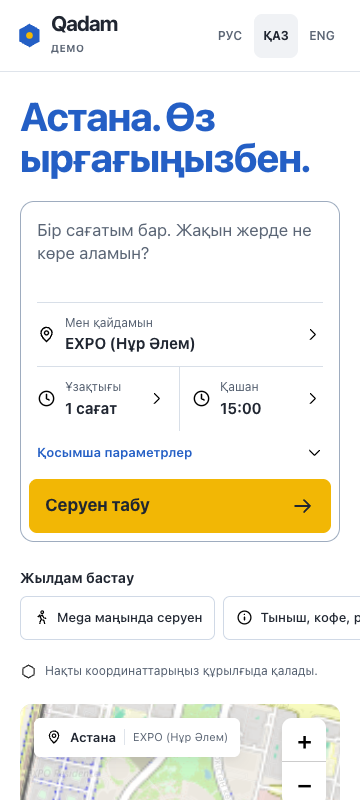
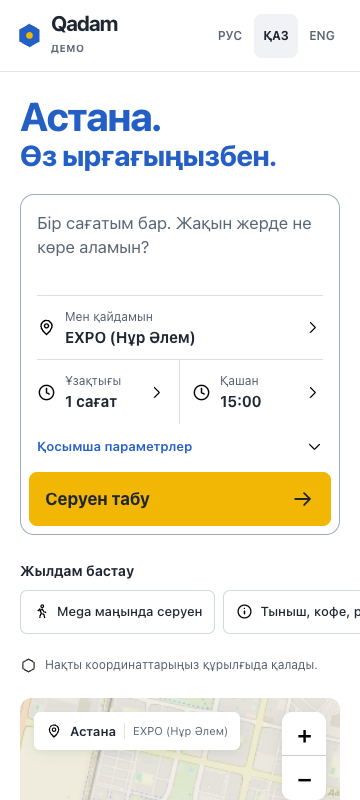
design: clarify localized headlines and refine control feedback

diff --git a/design/delivery/index.html b/design/delivery/index.html
@@ -3,7 +3,7 @@
 *{box-sizing:border-box}body{margin:0;background:#f2f4f7;color:#202631;font:14px/1.5 system-ui,-apple-system,Segoe UI,sans-serif}button,select{font:inherit}header{background:#fff;border-bottom:1px solid #dfe4eb;padding:24px 30px}h1{font-size:25px;letter-spacing:-.7px;margin:0 0 5px}header p{margin:0;color:#5c6675}header a{color:#245fc5}main{display:grid;grid-template-columns:280px minmax(0,1fr);gap:24px;padding:24px 30px;max-width:1650px;margin:auto}aside{background:#fff;border:1px solid #dfe4eb;border-radius:12px;padding:16px;align-self:start}aside h2{font-size:14px;margin:0 0 12px}nav{display:grid;gap:5px}nav button{border:0;border-radius:7px;background:transparent;text-align:left;padding:9px 10px;color:#495362;font-size:12px;min-height:38px}nav button[aria-pressed=true]{background:#eaf1ff;color:#1c4d9f;font-weight:650}nav button:hover{background:#f3f5f8}.content{min-width:0}.toolbar{display:flex;justify-content:space-between;align-items:flex-start;gap:16px;margin-bottom:15px}.toolbar h2{font-size:19px;margin:0}.toolbar p{font-size:12px;color:#5c6675;margin:4px 0 0}.toolbar a{color:#245fc5;white-space:nowrap}.modes{display:flex;gap:7px;margin-bottom:15px}.modes button{border:1px solid #d5dce5;border-radius:8px;background:#fff;padding:8px 13px;min-height:42px;color:#495362}.modes button[aria-pressed=true]{background:#202631;color:#fff;border-color:#202631}.preview{padding:22px;background:#e7ebf1;border-radius:13px;overflow:hidden;min-height:400px}.preview img{display:block;max-width:100%;height:auto;margin:0 auto;border:1px solid #d5dce5;box-shadow:0 8px 35px #20263110}.device{margin:auto;position:relative;overflow:hidden;background:#fff;border:1px solid #d5dce5}.device iframe{border:0;display:block;transform-origin:top left}.note{font-size:12px;line-height:1.8;color:#5c6675;background:#fff;border-radius:9px;padding:14px 16px;margin-top:15px}button:focus-visible,a:focus-visible,select:focus-visible{outline:3px solid #245fc5;outline-offset:3px}footer{padding:0 30px 25px;font-size:12px;color:#5c6675;text-align:center}@media(max-width:750px){header{padding:20px}main{display:block;padding:20px}aside{margin-bottom:20px}nav{display:flex;overflow-x:auto;max-height:120px;flex-wrap:nowrap}nav button{flex:0 0 170px}.toolbar{flex-wrap:wrap}.preview{padding:10px}.modes button{font-size:12px;padding:8px}.note{font-size:12px}}[hidden]{display:none!important}
 </style></head><body><header><h1>Qadam · UI/UX v2</h1><p style="margin:10px 0"><a href="demo/?view=home&amp;lang=kk" style="font-weight:650">Открыть обновлённый макет ↗</a> · <a href="UX-REFINEMENT.md">Что изменилось</a></p><p id="intro">Материалы для Megah / POLISH · P0 + P1 · казахский по умолчанию</p><p><a href="HANDOFF.md">Инструкция по передаче</a> · <a href="CONTRACT-AND-COVERAGE.md">Контракт и REQUEST</a> · <a href="QA-REVIEW.md">Проверка</a> · <a href="spec/tokens.json">Токены</a></p></header><main><aside><h2>Один кадр — одно состояние</h2><nav id="frames" aria-label="Кадры"></nav></aside><section class="content"><div class="toolbar"><div><h2 id="title"></h2><p id="size"></p></div><a id="download" download>PNG кадра ↗</a></div><div class="modes"><button type="button" data-mode="image" aria-pressed="true">PNG для вёрстки</button><button type="button" data-mode="demo" aria-pressed="false">Кликабельное состояние</button></div><div class="preview"><img id="shot" alt=""><div class="device" id="device" hidden><iframe id="demo" title="Qadam — интерактивный макет"></iframe></div></div><div class="note" id="note">Все числа, часы и статусы — демонстрационные фикстуры, а не проверка реальных мест. Приложение web/** не изменено. SVG-иконки и логотип находятся в assets/. Интерактивный просмотр требует запуска локального сервера по инструкции.</div></section></main><footer>Мобильные: 360 × 800 и 390 × 844 · Desktop: 1440 × 900 · Проверка: 1280 × 720 · Видео: 1920 × 1080</footer>
 <script>
-const manifest={"generatedAt": "2026-10-19T18:05:35.670Z", "frames": [{"file": "screens/01-home.png", "view": "home", "width": 360, "height": 800, "lang": "kk", "section": "top", "url": "demo/?view=home&lang=kk", "layout": {"width": 360, "scrollWidth": 360, "lang": "kk", "bodyHeight": 924, "firstCard": null}}, {"file": "screens/02-answer.png", "view": "answer", "width": 360, "height": 800, "lang": "kk", "section": "top", "url": "demo/?view=answer&lang=kk", "layout": {"width": 360, "scrollWidth": 360, "lang": "kk", "bodyHeight": 1931, "firstCard": {"top": 431.484375, "bottom": 725.453125}}}, {"file": "screens/03-card-open-poi.png", "view": "card-open", "width": 360, "height": 800, "lang": "kk", "section": "top", "url": "demo/?view=card-open&lang=kk", "layout": {"width": 360, "scrollWidth": 360, "lang": "kk", "bodyHeight": 800, "firstCard": {"top": 14, "bottom": 363.578125}}}, {"file": "screens/04-card-likely-ai.png", "view": "card-maybe", "width": 360, "height": 800, "lang": "kk", "section": "top", "url": "demo/?view=card-maybe&lang=kk", "layout": {"width": 360, "scrollWidth": 360, "lang": "kk", "bodyHeight": 800, "firstCard": {"top": 14, "bottom": 354.078125}}}, {"file": "screens/05-card-unnamed.png", "view": "card-unnamed", "width": 360, "height": 800, "lang": "kk", "section": "top", "url": "demo/?view=card-unnamed&lang=kk", "layout": {"width": 360, "scrollWidth": 360, "lang": "kk", "bodyHeight": 800, "firstCard": {"top": 14, "bottom": 406.359375}}}, {"file": "screens/06-card-closing.png", "view": "closing-soon", "width": 360, "height": 800, "lang": "kk", "section": "top", "url": "demo/?view=closing-soon&lang=kk", "layout": {"width": 360, "scrollWidth": 360, "lang": "kk", "bodyHeight": 800, "firstCard": {"top": 14, "bottom": 404.96875}}}, {"file": "screens/07-card-no-ai.png", "view": "card-no-ai", "width": 360, "height": 800, "lang": "kk", "section": "top", "url": "demo/?view=card-no-ai&lang=kk", "layout": {"width": 360, "scrollWidth": 360, "lang": "kk", "bodyHeight": 800, "firstCard": {"top": 70, "bottom": 389.78125}}}, {"file": "screens/08-card-selected.png", "view": "selected", "width": 360, "height": 800, "lang": "kk", "section": "top", "url": "demo/?view=selected&lang=kk", "layout": {"width": 360, "scrollWidth": 360, "lang": "kk", "bodyHeight": 800, "firstCard": {"top": 14, "bottom": 383.96875}}}, {"file": "screens/09-loading.png", "view": "loading", "width": 360, "height": 800, "lang": "kk", "section": "top", "url": "demo/?view=loading&lang=kk", "layout": {"width": 360, "scrollWidth": 360, "lang": "kk", "bodyHeight": 1180, "firstCard": {"top": 414.796875, "bottom": 542.796875}}}, {"file": "screens/10-error.png", "view": "error", "width": 360, "height": 800, "lang": "kk", "section": "top", "url": "demo/?view=error&lang=kk", "layout": {"width": 360, "scrollWidth": 360, "lang": "kk", "bodyHeight": 1180, "firstCard": null}}, {"file": "screens/11-empty.png", "view": "empty", "width": 360, "height": 800, "lang": "kk", "section": "top", "url": "demo/?view=empty&lang=kk", "layout": {"width": 360, "scrollWidth": 360, "lang": "kk", "bodyHeight": 1103, "firstCard": null}}, {"file": "screens/12-conditions-changed.png", "view": "stale", "width": 360, "height": 800, "lang": "kk", "section": "top", "url": "demo/?view=stale&lang=kk", "layout": {"width": 360, "scrollWidth": 360, "lang": "kk", "bodyHeight": 2105, "firstCard": {"top": 601.390625, "bottom": 897.359375}}}, {"file": "screens/13-answer-no-ai.png", "view": "no-ai", "width": 360, "height": 800, "lang": "kk", "section": "top", "url": "demo/?view=no-ai&lang=kk", "layout": {"width": 360, "scrollWidth": 360, "lang": "kk", "bodyHeight": 1219, "firstCard": {"top": 403.484375, "bottom": 667.65625}}}, {"file": "screens/14-departure.png", "view": "departure", "width": 360, "height": 800, "lang": "kk", "section": "top", "url": "demo/?view=departure&lang=kk", "layout": {"width": 360, "scrollWidth": 360, "lang": "kk", "bodyHeight": 1224, "firstCard": {"top": 408.765625, "bottom": 672.9375}}}, {"file": "screens/15-night.png", "view": "night", "width": 360, "height": 800, "lang": "kk", "section": "top", "url": "demo/?view=night&lang=kk", "layout": {"width": 360, "scrollWidth": 360, "lang": "kk", "bodyHeight": 1184, "firstCard": null}}, {"file": "screens/16-coffee.png", "view": "coffee", "width": 360, "height": 800, "lang": "kk", "section": "top", "url": "demo/?view=coffee&lang=kk", "layout": {"width": 360, "scrollWidth": 360, "lang": "kk", "bodyHeight": 1220, "firstCard": {"top": 408.765625, "bottom": 668.84375}}}, {"file": "screens/17-with-child.png", "view": "kids", "width": 360, "height": 800, "lang": "kk", "section": "top", "url": "demo/?view=kids&lang=kk", "layout": {"width": 360, "scrollWidth": 360, "lang": "kk", "bodyHeight": 1234, "firstCard": {"top": 370.484375, "bottom": 682.84375}}}, {"file": "screens/18-route.png", "view": "route", "width": 360, "height": 800, "lang": "kk", "section": "top", "url": "demo/?view=route&lang=kk", "layout": {"width": 360, "scrollWidth": 360, "lang": "kk", "bodyHeight": 800, "firstCard": {"top": 0, "bottom": 0}}}, {"file": "screens/19-privacy-cell.png", "view": "privacy", "width": 360, "height": 800, "lang": "kk", "section": "map", "url": "demo/?view=privacy&lang=kk", "layout": {"width": 360, "scrollWidth": 360, "lang": "kk", "bodyHeight": 1931, "firstCard": {"top": -699.515625, "bottom": -405.546875}}}, {"file": "screens/20-data-used.png", "view": "data", "width": 360, "height": 800, "lang": "kk", "section": "top", "url": "demo/?view=data&lang=kk", "layout": {"width": 360, "scrollWidth": 360, "lang": "kk", "bodyHeight": 1132, "firstCard": {"top": 0, "bottom": 0}}}, {"file": "screens/21-pick-map.png", "view": "pick", "width": 360, "height": 800, "lang": "kk", "section": "map", "url": "demo/?view=pick&lang=kk", "layout": {"width": 360, "scrollWidth": 360, "lang": "kk", "bodyHeight": 1551, "firstCard": {"top": 431.484375, "bottom": 725.453125}}}, {"file": "screens/22-map-unavailable.png", "view": "map-error", "width": 360, "height": 800, "lang": "kk", "section": "map", "url": "demo/?view=map-error&lang=kk", "layout": {"width": 360, "scrollWidth": 360, "lang": "kk", "bodyHeight": 1931, "firstCard": {"top": -699.515625, "bottom": -405.546875}}}, {"file": "screens/23-geolocation-denied.png", "view": "geo-denied", "width": 360, "height": 800, "lang": "kk", "section": "top", "url": "demo/?view=geo-denied&lang=kk", "layout": {"width": 360, "scrollWidth": 360, "lang": "kk", "bodyHeight": 1757, "firstCard": null}}, {"file": "screens/24-outside-astana.png", "view": "geo-far", "width": 360, "height": 800, "lang": "kk", "section": "top", "url": "demo/?view=geo-far&lang=kk", "layout": {"width": 360, "scrollWidth": 360, "lang": "kk", "bodyHeight": 1757, "firstCard": null}}, {"file": "screens/25-query-too-large.png", "view": "too-large", "width": 360, "height": 800, "lang": "kk", "section": "top", "url": "demo/?view=too-large&lang=kk", "layout": {"width": 360, "scrollWidth": 360, "lang": "kk", "bodyHeight": 1180, "firstCard": null}}, {"file": "screens/26-server-loading.png", "view": "unavailable", "width": 360, "height": 800, "lang": "kk", "section": "top", "url": "demo/?view=unavailable&lang=kk", "layout": {"width": 360, "scrollWidth": 360, "lang": "kk", "bodyHeight": 1180, "firstCard": null}}, {"file": "screens/27-timeout.png", "view": "timeout", "width": 360, "height": 800, "lang": "kk", "section": "top", "url": "demo/?view=timeout&lang=kk", "layout": {"width": 360, "scrollWidth": 360, "lang": "kk", "bodyHeight": 1180, "firstCard": null}}, {"file": "screens/28-query-empty.png", "view": "query-empty", "width": 360, "height": 800, "lang": "kk", "section": "top", "url": "demo/?view=query-empty&lang=kk", "layout": {"width": 360, "scrollWidth": 360, "lang": "kk", "bodyHeight": 963, "firstCard": null}}, {"file": "screens/29-route-over-budget.png", "view": "over-budget", "width": 360, "height": 800, "lang": "kk", "section": "route", "url": "demo/?view=over-budget&lang=kk", "layout": {"width": 360, "scrollWidth": 360, "lang": "kk", "bodyHeight": 2380, "firstCard": {"top": -741.375, "bottom": -447.40625}}}, {"file": "screens/30-styles.png", "view": "styles", "width": 360, "height": 800, "lang": "kk", "section": "top", "url": "demo/?view=styles&lang=kk", "layout": {"width": 360, "scrollWidth": 360, "lang": "kk", "bodyHeight": 827, "firstCard": null}}, {"file": "screens/31-desktop-1440.png", "view": "answer", "width": 1440, "height": 900, "lang": "kk", "section": "top", "url": "demo/?view=answer&lang=kk", "layout": {"width": 1440, "scrollWidth": 1440, "lang": "kk", "bodyHeight": 900, "firstCard": {"top": 428.171875, "bottom": 664.265625}}}, {"file": "screens/32-desktop-1280.png", "view": "answer", "width": 1280, "height": 720, "lang": "kk", "section": "top", "url": "demo/?view=answer&lang=kk", "layout": {"width": 1280, "scrollWidth": 1280, "lang": "kk", "bodyHeight": 720, "firstCard": {"top": 428.171875, "bottom": 686.015625}}}, {"file": "screens/33-video-1920.png", "view": "privacy", "width": 1920, "height": 1080, "lang": "kk", "section": "top", "url": "demo/?view=privacy&lang=kk", "layout": {"width": 1920, "scrollWidth": 1920, "lang": "kk", "bodyHeight": 1080, "firstCard": {"top": 428.171875, "bottom": 664.265625}}}, {"file": "screens/34-phone-390.png", "view": "answer", "width": 390, "height": 844, "lang": "kk", "section": "top", "url": "demo/?view=answer&lang=kk", "layout": {"width": 390, "scrollWidth": 390, "lang": "kk", "bodyHeight": 1856, "firstCard": {"top": 406.390625, "bottom": 647.390625}}}, {"file": "screens/35-tablet-768.png", "view": "answer", "width": 768, "height": 1000, "lang": "kk", "section": "top", "url": "demo/?view=answer&lang=kk", "layout": {"width": 768, "scrollWidth": 768, "lang": "kk", "bodyHeight": 1638, "firstCard": {"top": 385.390625, "bottom": 583.59375}}}, {"file": "screens/36-response-ru.png", "view": "answer", "width": 360, "height": 800, "lang": "ru", "section": "top", "url": "demo/?view=answer&lang=ru", "layout": {"width": 360, "scrollWidth": 360, "lang": "ru", "bodyHeight": 1824, "firstCard": {"top": 421.453125, "bottom": 685.625}}}, {"file": "screens/37-response-en.png", "view": "answer", "width": 360, "height": 800, "lang": "en", "section": "top", "url": "demo/?view=answer&lang=en", "layout": {"width": 360, "scrollWidth": 360, "lang": "en", "bodyHeight": 1742, "firstCard": {"top": 406.390625, "bottom": 648.0625}}}, {"file": "screens/38-closed-medium.png", "view": "closed-medium", "width": 360, "height": 800, "lang": "kk", "section": "top", "url": "demo/?view=closed-medium&lang=kk", "layout": {"width": 360, "scrollWidth": 360, "lang": "kk", "bodyHeight": 1165, "firstCard": {"top": 349.484375, "bottom": 613.65625}}}, {"file": "screens/39-desktop-form.png", "view": "home", "width": 1440, "height": 900, "lang": "kk", "section": "top", "url": "demo/?view=home&lang=kk", "layout": {"width": 1440, "scrollWidth": 1440, "lang": "kk", "bodyHeight": 900, "firstCard": null}}, {"file": "screens/40-sent-payload.png", "view": "data", "width": 360, "height": 800, "lang": "kk", "section": "payload", "url": "demo/?view=data&lang=kk", "layout": {"width": 360, "scrollWidth": 360, "lang": "kk", "bodyHeight": 1132, "firstCard": {"top": 0, "bottom": 0}}}, {"file": "screens/41-mega-scenario.png", "view": "answer-short", "width": 360, "height": 800, "lang": "kk", "section": "top", "url": "demo/?view=answer-short&lang=kk", "layout": {"width": 360, "scrollWidth": 360, "lang": "kk", "bodyHeight": 1636, "firstCard": {"top": 431.484375, "bottom": 691.5625}}}], "errors": []};
+const manifest={"generatedAt":"2026-10-19T18:16:28.785Z","frames":[{"file":"screens/01-home.png","view":"home","width":360,"height":800,"lang":"kk","section":"top","url":"demo/?view=home&lang=kk","layout":{"width":360,"scrollWidth":360,"lang":"kk","bodyHeight":918,"firstCard":null}},{"file":"screens/02-answer.png","view":"answer","width":360,"height":800,"lang":"kk","section":"top","url":"demo/?view=answer&lang=kk","layout":{"width":360,"scrollWidth":360,"lang":"kk","bodyHeight":1931,"firstCard":{"top":431.484375,"bottom":725.453125}}},{"file":"screens/03-card-open-poi.png","view":"card-open","width":360,"height":800,"lang":"kk","section":"top","url":"demo/?view=card-open&lang=kk","layout":{"width":360,"scrollWidth":360,"lang":"kk","bodyHeight":800,"firstCard":{"top":14,"bottom":363.578125}}},{"file":"screens/04-card-likely-ai.png","view":"card-maybe","width":360,"height":800,"lang":"kk","section":"top","url":"demo/?view=card-maybe&lang=kk","layout":{"width":360,"scrollWidth":360,"lang":"kk","bodyHeight":800,"firstCard":{"top":14,"bottom":354.078125}}},{"file":"screens/05-card-unnamed.png","view":"card-unnamed","width":360,"height":800,"lang":"kk","section":"top","url":"demo/?view=card-unnamed&lang=kk","layout":{"width":360,"scrollWidth":360,"lang":"kk","bodyHeight":800,"firstCard":{"top":14,"bottom":406.359375}}},{"file":"screens/06-card-closing.png","view":"closing-soon","width":360,"height":800,"lang":"kk","section":"top","url":"demo/?view=closing-soon&lang=kk","layout":{"width":360,"scrollWidth":360,"lang":"kk","bodyHeight":800,"firstCard":{"top":14,"bottom":404.96875}}},{"file":"screens/07-card-no-ai.png","view":"card-no-ai","width":360,"height":800,"lang":"kk","section":"top","url":"demo/?view=card-no-ai&lang=kk","layout":{"width":360,"scrollWidth":360,"lang":"kk","bodyHeight":800,"firstCard":{"top":70,"bottom":389.78125}}},{"file":"screens/08-card-selected.png","view":"selected","width":360,"height":800,"lang":"kk","section":"top","url":"demo/?view=selected&lang=kk","layout":{"width":360,"scrollWidth":360,"lang":"kk","bodyHeight":800,"firstCard":{"top":14,"bottom":383.96875}}},{"file":"screens/09-loading.png","view":"loading","width":360,"height":800,"lang":"kk","section":"top","url":"demo/?view=loading&lang=kk","layout":{"width":360,"scrollWidth":360,"lang":"kk","bodyHeight":1180,"firstCard":{"top":414.796875,"bottom":542.796875}}},{"file":"screens/10-error.png","view":"error","width":360,"height":800,"lang":"kk","section":"top","url":"demo/?view=error&lang=kk","layout":{"width":360,"scrollWidth":360,"lang":"kk","bodyHeight":1180,"firstCard":null}},{"file":"screens/11-empty.png","view":"empty","width":360,"height":800,"lang":"kk","section":"top","url":"demo/?view=empty&lang=kk","layout":{"width":360,"scrollWidth":360,"lang":"kk","bodyHeight":1103,"firstCard":null}},{"file":"screens/12-conditions-changed.png","view":"stale","width":360,"height":800,"lang":"kk","section":"top","url":"demo/?view=stale&lang=kk","layout":{"width":360,"scrollWidth":360,"lang":"kk","bodyHeight":2105,"firstCard":{"top":601.390625,"bottom":897.359375}}},{"file":"screens/13-answer-no-ai.png","view":"no-ai","width":360,"height":800,"lang":"kk","section":"top","url":"demo/?view=no-ai&lang=kk","layout":{"width":360,"scrollWidth":360,"lang":"kk","bodyHeight":1219,"firstCard":{"top":403.484375,"bottom":667.65625}}},{"file":"screens/14-departure.png","view":"departure","width":360,"height":800,"lang":"kk","section":"top","url":"demo/?view=departure&lang=kk","layout":{"width":360,"scrollWidth":360,"lang":"kk","bodyHeight":1224,"firstCard":{"top":408.765625,"bottom":672.9375}}},{"file":"screens/15-night.png","view":"night","width":360,"height":800,"lang":"kk","section":"top","url":"demo/?view=night&lang=kk","layout":{"width":360,"scrollWidth":360,"lang":"kk","bodyHeight":1184,"firstCard":null}},{"file":"screens/16-coffee.png","view":"coffee","width":360,"height":800,"lang":"kk","section":"top","url":"demo/?view=coffee&lang=kk","layout":{"width":360,"scrollWidth":360,"lang":"kk","bodyHeight":1220,"firstCard":{"top":408.765625,"bottom":668.84375}}},{"file":"screens/17-with-child.png","view":"kids","width":360,"height":800,"lang":"kk","section":"top","url":"demo/?view=kids&lang=kk","layout":{"width":360,"scrollWidth":360,"lang":"kk","bodyHeight":1234,"firstCard":{"top":370.484375,"bottom":682.84375}}},{"file":"screens/18-route.png","view":"route","width":360,"height":800,"lang":"kk","section":"top","url":"demo/?view=route&lang=kk","layout":{"width":360,"scrollWidth":360,"lang":"kk","bodyHeight":800,"firstCard":{"top":0,"bottom":0}}},{"file":"screens/19-privacy-cell.png","view":"privacy","width":360,"height":800,"lang":"kk","section":"map","url":"demo/?view=privacy&lang=kk","layout":{"width":360,"scrollWidth":360,"lang":"kk","bodyHeight":1931,"firstCard":{"top":-699.515625,"bottom":-405.546875}}},{"file":"screens/20-data-used.png","view":"data","width":360,"height":800,"lang":"kk","section":"top","url":"demo/?view=data&lang=kk","layout":{"width":360,"scrollWidth":360,"lang":"kk","bodyHeight":1132,"firstCard":{"top":0,"bottom":0}}},{"file":"screens/21-pick-map.png","view":"pick","width":360,"height":800,"lang":"kk","section":"map","url":"demo/?view=pick&lang=kk","layout":{"width":360,"scrollWidth":360,"lang":"kk","bodyHeight":1551,"firstCard":{"top":431.484375,"bottom":725.453125}}},{"file":"screens/22-map-unavailable.png","view":"map-error","width":360,"height":800,"lang":"kk","section":"map","url":"demo/?view=map-error&lang=kk","layout":{"width":360,"scrollWidth":360,"lang":"kk","bodyHeight":1931,"firstCard":{"top":-699.515625,"bottom":-405.546875}}},{"file":"screens/23-geolocation-denied.png","view":"geo-denied","width":360,"height":800,"lang":"kk","section":"top","url":"demo/?view=geo-denied&lang=kk","layout":{"width":360,"scrollWidth":360,"lang":"kk","bodyHeight":1750,"firstCard":null}},{"file":"screens/24-outside-astana.png","view":"geo-far","width":360,"height":800,"lang":"kk","section":"top","url":"demo/?view=geo-far&lang=kk","layout":{"width":360,"scrollWidth":360,"lang":"kk","bodyHeight":1750,"firstCard":null}},{"file":"screens/25-query-too-large.png","view":"too-large","width":360,"height":800,"lang":"kk","section":"top","url":"demo/?view=too-large&lang=kk","layout":{"width":360,"scrollWidth":360,"lang":"kk","bodyHeight":1180,"firstCard":null}},{"file":"screens/26-server-loading.png","view":"unavailable","width":360,"height":800,"lang":"kk","section":"top","url":"demo/?view=unavailable&lang=kk","layout":{"width":360,"scrollWidth":360,"lang":"kk","bodyHeight":1180,"firstCard":null}},{"file":"screens/27-timeout.png","view":"timeout","width":360,"height":800,"lang":"kk","section":"top","url":"demo/?view=timeout&lang=kk","layout":{"width":360,"scrollWidth":360,"lang":"kk","bodyHeight":1180,"firstCard":null}},{"file":"screens/28-query-empty.png","view":"query-empty","width":360,"height":800,"lang":"kk","section":"top","url":"demo/?view=query-empty&lang=kk","layout":{"width":360,"scrollWidth":360,"lang":"kk","bodyHeight":957,"firstCard":null}},{"file":"screens/29-route-over-budget.png","view":"over-budget","width":360,"height":800,"lang":"kk","section":"route","url":"demo/?view=over-budget&lang=kk","layout":{"width":360,"scrollWidth":360,"lang":"kk","bodyHeight":2380,"firstCard":{"top":-741.375,"bottom":-447.40625}}},{"file":"screens/30-styles.png","view":"styles","width":360,"height":800,"lang":"kk","section":"top","url":"demo/?view=styles&lang=kk","layout":{"width":360,"scrollWidth":360,"lang":"kk","bodyHeight":827,"firstCard":null}},{"file":"screens/31-desktop-1440.png","view":"answer","width":1440,"height":900,"lang":"kk","section":"top","url":"demo/?view=answer&lang=kk","layout":{"width":1440,"scrollWidth":1440,"lang":"kk","bodyHeight":900,"firstCard":{"top":428.171875,"bottom":664.265625}}},{"file":"screens/32-desktop-1280.png","view":"answer","width":1280,"height":720,"lang":"kk","section":"top","url":"demo/?view=answer&lang=kk","layout":{"width":1280,"scrollWidth":1280,"lang":"kk","bodyHeight":720,"firstCard":{"top":428.171875,"bottom":686.015625}}},{"file":"screens/33-video-1920.png","view":"privacy","width":1920,"height":1080,"lang":"kk","section":"top","url":"demo/?view=privacy&lang=kk","layout":{"width":1920,"scrollWidth":1920,"lang":"kk","bodyHeight":1080,"firstCard":{"top":428.171875,"bottom":664.265625}}},{"file":"screens/34-phone-390.png","view":"answer","width":390,"height":844,"lang":"kk","section":"top","url":"demo/?view=answer&lang=kk","layout":{"width":390,"scrollWidth":390,"lang":"kk","bodyHeight":1856,"firstCard":{"top":406.390625,"bottom":647.390625}}},{"file":"screens/35-tablet-768.png","view":"answer","width":768,"height":1000,"lang":"kk","section":"top","url":"demo/?view=answer&lang=kk","layout":{"width":768,"scrollWidth":768,"lang":"kk","bodyHeight":1638,"firstCard":{"top":385.390625,"bottom":583.59375}}},{"file":"screens/36-response-ru.png","view":"answer","width":360,"height":800,"lang":"ru","section":"top","url":"demo/?view=answer&lang=ru","layout":{"width":360,"scrollWidth":360,"lang":"ru","bodyHeight":1824,"firstCard":{"top":421.453125,"bottom":685.625}}},{"file":"screens/37-response-en.png","view":"answer","width":360,"height":800,"lang":"en","section":"top","url":"demo/?view=answer&lang=en","layout":{"width":360,"scrollWidth":360,"lang":"en","bodyHeight":1742,"firstCard":{"top":406.390625,"bottom":648.0625}}},{"file":"screens/38-closed-medium.png","view":"closed-medium","width":360,"height":800,"lang":"kk","section":"top","url":"demo/?view=closed-medium&lang=kk","layout":{"width":360,"scrollWidth":360,"lang":"kk","bodyHeight":1165,"firstCard":{"top":349.484375,"bottom":613.65625}}},{"file":"screens/39-desktop-form.png","view":"home","width":1440,"height":900,"lang":"kk","section":"top","url":"demo/?view=home&lang=kk","layout":{"width":1440,"scrollWidth":1440,"lang":"kk","bodyHeight":900,"firstCard":null}},{"file":"screens/40-sent-payload.png","view":"data","width":360,"height":800,"lang":"kk","section":"payload","url":"demo/?view=data&lang=kk","layout":{"width":360,"scrollWidth":360,"lang":"kk","bodyHeight":1132,"firstCard":{"top":0,"bottom":0}}},{"file":"screens/41-mega-scenario.png","view":"answer-short","width":360,"height":800,"lang":"kk","section":"top","url":"demo/?view=answer-short&lang=kk","layout":{"width":360,"scrollWidth":360,"lang":"kk","bodyHeight":1636,"firstCard":{"top":431.484375,"bottom":691.5625}}}],"errors":[]};
 const labels={"screens/01-home.png": "01 Главный", "screens/02-answer.png": "02 Ответ", "screens/03-card-open-poi.png": "03 Карточка · открыто + POI", "screens/04-card-likely-ai.png": "04 Карточка · вероятно открыто + ИИ", "screens/05-card-unnamed.png": "05 Карточка · безымянная площадка", "screens/06-card-closing.png": "06 Карточка · скоро закроется", "screens/07-card-no-ai.png": "07 Карточка · без ИИ", "screens/08-card-selected.png": "08 Карточка · выделена с карты", "screens/09-loading.png": "09 Загрузка", "screens/10-error.png": "10 Ошибка сети", "screens/11-empty.png": "11 Ничего не подошло", "screens/12-conditions-changed.png": "12 Условия изменились", "screens/13-answer-no-ai.png": "13 Ответ без ИИ", "screens/14-departure.png": "14 До вылета", "screens/15-night.png": "15 Ночь", "screens/16-coffee.png": "16 Кофе и розетка", "screens/17-with-child.png": "17 С ребёнком", "screens/18-route.png": "18 Мини-маршрут", "screens/19-privacy-cell.png": "19 Приватность · H3", "screens/20-data-used.png": "20 Какие данные использованы", "screens/21-pick-map.png": "21 Указать точку на карте", "screens/22-map-unavailable.png": "22 Карта не загрузилась", "screens/23-geolocation-denied.png": "23 Геолокация запрещена", "screens/24-outside-astana.png": "24 Вне Астаны", "screens/25-query-too-large.png": "25 Слишком длинный запрос", "screens/26-server-loading.png": "26 Данные сервера загружаются", "screens/27-timeout.png": "27 Таймаут", "screens/28-query-empty.png": "28 Пустой запрос", "screens/29-route-over-budget.png": "29 Маршрут не помещается во время", "screens/30-styles.png": "30 Цвета, шрифт, отступы", "screens/31-desktop-1440.png": "31 Desktop · 1440 × 900", "screens/32-desktop-1280.png": "32 Desktop · 1280 × 720", "screens/33-video-1920.png": "33 Видео · 1920 × 1080", "screens/34-phone-390.png": "34 Телефон · 390 × 844", "screens/35-tablet-768.png": "35 Планшет · 768 px", "screens/36-response-ru.png": "36 Ответ · русский", "screens/37-response-en.png": "37 Ответ · English", "screens/38-closed-medium.png": "38 Возможно закрыто", "screens/39-desktop-form.png": "39 Desktop · раскрытая форма", "screens/40-sent-payload.png": "40 Что ушло на сервер", "screens/41-mega-scenario.png": "41 Сценарий Mega · 1 час"};
 const nav=document.getElementById('frames'),shot=document.getElementById('shot'),frame=document.getElementById('demo'),device=document.getElementById('device');let selected=0,mode='image';
 function render(){const data=manifest.frames[selected],label=labels[data.file]||data.file;document.getElementById('title').textContent=label;document.getElementById('size').textContent=`${data.width} × ${data.height} px · ${data.lang.toUpperCase()}`;document.getElementById('download').href=data.file;shot.src=data.file;shot.alt=label;shot.style.width=data.width+'px';shot.hidden=mode!=='image';device.hidden=mode!=='demo';if(mode==='demo'){frame.src=data.url;frame.style.width=data.width+'px';frame.style.height=data.height+'px';fit();}nav.querySelectorAll('button').forEach((b,i)=>b.setAttribute('aria-pressed',String(i===selected)));document.querySelectorAll('[data-mode]').forEach(b=>b.setAttribute('aria-pressed',String(b.dataset.mode===mode)));}

diff --git a/design/delivery/demo/preview.js b/design/delivery/demo/preview.js
@@ -48,11 +48,17 @@ function conditionText(){return `${locationName()} · ${t('budget.'+state.budget
 function syncChrome(){
  const home=['home','geo-denied','geo-far','query-empty'].includes(state.view);
  document.body.classList.toggle('is-loading',state.view==='loading');document.body.classList.toggle('home-view',home);document.body.classList.toggle('result-view',!home);document.body.classList.toggle('editing',state.editing);document.body.classList.toggle('map-open',state.mapOpen&&ifSmall());
- hero.querySelector('.eyebrow').textContent=ux('eyebrow');hero.querySelector('h2').textContent=ux('hero');hero.querySelector('.home-intro').textContent=ux('intro');
+ hero.querySelector('.eyebrow').textContent=ux('eyebrow');hero.querySelector('h2').replaceChildren(view.h('span',{class:'hero-city',text:ux('heroCity')}),' ',view.h('span',{class:'hero-tagline',text:ux('heroTagline')}));hero.querySelector('h2').setAttribute('aria-label',ux('hero'));hero.querySelector('.home-intro').textContent=ux('intro');
  $('presets-title').textContent=ux('presets');$('query').placeholder=ux('placeholder');$('submit').querySelector('span').textContent=ux('submit');
  $('mock-pill').textContent=ux('demo');$('mock-pill').title=ux('mockHint');privacy.querySelector('span').textContent=ux('privacy');
  const conditionValues={where:[t('where.legend'),locationName()],duration:[ux('durationLabel'),t('budget.'+state.budget)],when:[t('when.legend'),(state.day?t('when.tomorrow')+' · ':'')+(state.time||t('when.now'))]};
- for(const [kind,[label,value]] of Object.entries(conditionValues)){const control=mobileConditions.querySelector('.condition-'+kind);control.querySelector('small').textContent=label;control.querySelector('strong').textContent=value;}
+ for(const [kind,[label,value]] of Object.entries(conditionValues)){const control=mobileConditions.querySelector('.condition-'+kind);const changed=control._displayValue!==undefined&&control._displayLang===getLang()&&control._displayValue!==value;
+  control.querySelector('small').textContent=label;control.querySelector('strong').textContent=value;
+  if(changed&&home&&!map.reducedMotion()&&control.offsetParent){
+   control.getAnimations().forEach(animation=>animation.cancel());
+   control.animate([{backgroundColor:'#fff0b0'},{backgroundColor:'#ffffff'}],{duration:320,easing:'cubic-bezier(.16,1,.3,1)'});
+  }
+  control._displayValue=value;control._displayLang=getLang();}
  done.textContent=ux('apply');editCancel.textContent=ux('cancelEdit');editCancel.hidden=!state.editing;
  toolbar.querySelector('strong').textContent=$('query').value||t(`preset.${state.scenario}.query`);toolbar.querySelector('small').textContent=conditionText();toolbar.querySelector('.edit-label').textContent=ux('edit');toolbar.setAttribute('aria-label',ux('editQuery'));
  mapBack.lastElementChild.textContent=state.answer?ux('back'):ux('editQuery');mapLabel.querySelector('span').textContent=ux('mapTitle');mapLabel.querySelector('small').textContent=locationName();

diff --git a/design/delivery/demo/city-home.css b/design/delivery/demo/city-home.css
@@ -448,3 +448,22 @@ html[lang='en'] .home-view .parameters > summary::before {
     margin-bottom: 23px;
   }
 }
+
+/* Clarify + adapt: city and promise are two deliberate, localized lines. */
+.home-view .home-heading h2{max-width:none;text-wrap:initial}
+.hero-city,.hero-tagline{display:block}
+.home-view .hero-city{line-height:1.02}
+.home-view .hero-tagline{white-space:nowrap;font-size:clamp(26px,8vw,40px);line-height:1.12;margin-top:.08em;letter-spacing:-.025em}
+/* The visible label is real localized text, shared with its accessible name. */
+.home-view .parameters>summary{font-size:13px}
+.home-view .parameters>summary::before{display:none;content:none}
+.home-view .query-row #submit{transition:background-color 120ms ease-out,box-shadow 120ms ease-out}
+.home-view .query-row #submit::after{transition:transform 160ms cubic-bezier(.16,1,.3,1)}
+.home-view .query-row #submit:focus-visible::after{transform:translateX(4px)}
+.home-view .query-row #submit:active::after{transform:translateX(6px)}
+@media(hover:hover){.home-view .query-row #submit:hover::after{transform:translateX(4px)}}
+.home-view .condition-control:active{background:#fff0b0}
+@media(min-width:600px) and (max-width:999px){.home-view .hero-tagline{font-size:44px}}
+@media(min-width:1000px){.home-view .hero-tagline{font-size:clamp(36px,3.6vw,54px)}}
+@media(max-width:599px){.home-view .controls{padding-left:max(20px,env(safe-area-inset-left));padding-right:max(20px,env(safe-area-inset-right))}}
+@media(prefers-reduced-motion:reduce){.home-view .query-row #submit::after{transition:none;transform:none!important}}

diff --git a/design/delivery/demo/lib/experience-copy.js b/design/delivery/demo/lib/experience-copy.js
@@ -4,6 +4,8 @@ const COPY={
   "kk": {
     "durationLabel": "Ұзақтығы",
     "hero": "Астана. Өз ырғағыңызбен.",
+    "heroCity": "Астана.",
+    "heroTagline": "Өз ырғағыңызбен.",
     "intro": "Жақын орындар. Уақытыңызға сай серуен.",
     "eyebrow": "Астана · жаяу серуен",
     "presets": "Жылдам бастау",
@@ -53,6 +55,8 @@ const COPY={
   "ru": {
     "durationLabel": "На сколько",
     "hero": "Астана. В вашем темпе.",
+    "heroCity": "Астана.",
+    "heroTagline": "В вашем темпе.",
     "intro": "Близкие места. Прогулка на ваше время.",
     "eyebrow": "Астана · пешком по городу",
     "presets": "Быстрый старт",
@@ -102,6 +106,8 @@ const COPY={
   "en": {
     "durationLabel": "Duration",
     "hero": "Astana. At your pace.",
+    "heroCity": "Astana.",
+    "heroTagline": "At your pace.",
     "intro": "Nearby places. A walk to fit your time.",
     "eyebrow": "Astana · on foot",
     "presets": "Quick start",

diff --git a/design/delivery/UX-REFINEMENT.md b/design/delivery/UX-REFINEMENT.md
@@ -86,3 +86,8 @@
 Новые стили city-home.css и city-results.css подключаются после polish.css. localize-answer.js переводит fixture-текст, не подменяя часы, числа, координаты и confidence. Макет по-прежнему использует локальные мок-данные и не подтверждает live API. Системные языковые подписи увеличены, доступное имя дополнительных параметров согласовано с видимой надписью.
 
 Путь проверки: home → запрос/сценарий → полный план → детали → карта → возврат → изменение запроса. Шаги загрузки и шаги внутри сплошной линии карты сохранены.
+
+
+### Clarify / animate / delight / adapt
+
+Город и обещание разделены на2смысловые строки; RU «В вашем темпе.», KK «Өз ырғағыңызбен.», EN «At your pace.» не разрываются. Размер второй строки зависит от ширины. CSS-generated подпись параметров заменена настоящим текстом словаря. Изменение условия получает короткую320мс подсветку, стрелка поиска —160мс отклик на hover/focus/press. Reduced motion убирает пространственное движение и JS-подсветку.

diff --git a/DESIGN.md b/DESIGN.md
@@ -34,6 +34,12 @@ typography:
     fontWeight: 750
     lineHeight: 1.02
     letterSpacing: "-0.035em"
+  hero-tagline:
+    fontFamily: "system-ui, -apple-system, \"Segoe UI\", Roboto, \"Noto Sans\", sans-serif"
+    fontSize: "clamp(26px, 8vw, 40px)"
+    fontWeight: 750
+    lineHeight: 1.12
+    letterSpacing: "-0.025em"
   headline:
     fontFamily: "system-ui, -apple-system, \"Segoe UI\", Roboto, \"Noto Sans\", sans-serif"
     fontSize: "36px"
@@ -241,3 +247,9 @@ Only original SVG interface assets and live map tiles ship in this surface; ther
 - Don't turn the main itinerary back into equal rounded card stacks.
 - Don't add photos, ratings, favorites or factual claims absent from the supplied product data.
 - Don't describe the approximate route or decorative footsteps as street navigation or live location.
+
+## Localized headline and control feedback
+
+The city and promise are separate block spans. Each locale supplies heroCity/heroTagline; screen readers receive the complete hero label. The promise is unbroken: mobile clamp(26px,8vw,40px), tablet44px, desktop clamp(36px,3.6vw,54px). The existing city display scale remains. Options use real translated summary text instead of CSS-generated copy.
+
+A changed visible condition receives a320ms pale-yellow (#fff0b0) background acknowledgement, cancelled before a repeated update; reduced motion skips it. The existing SVG search arrow moves4px on pointer hover/keyboard focus and6px on press, over160ms; reduced motion keeps it static. No load entrance or extra wait is added.
